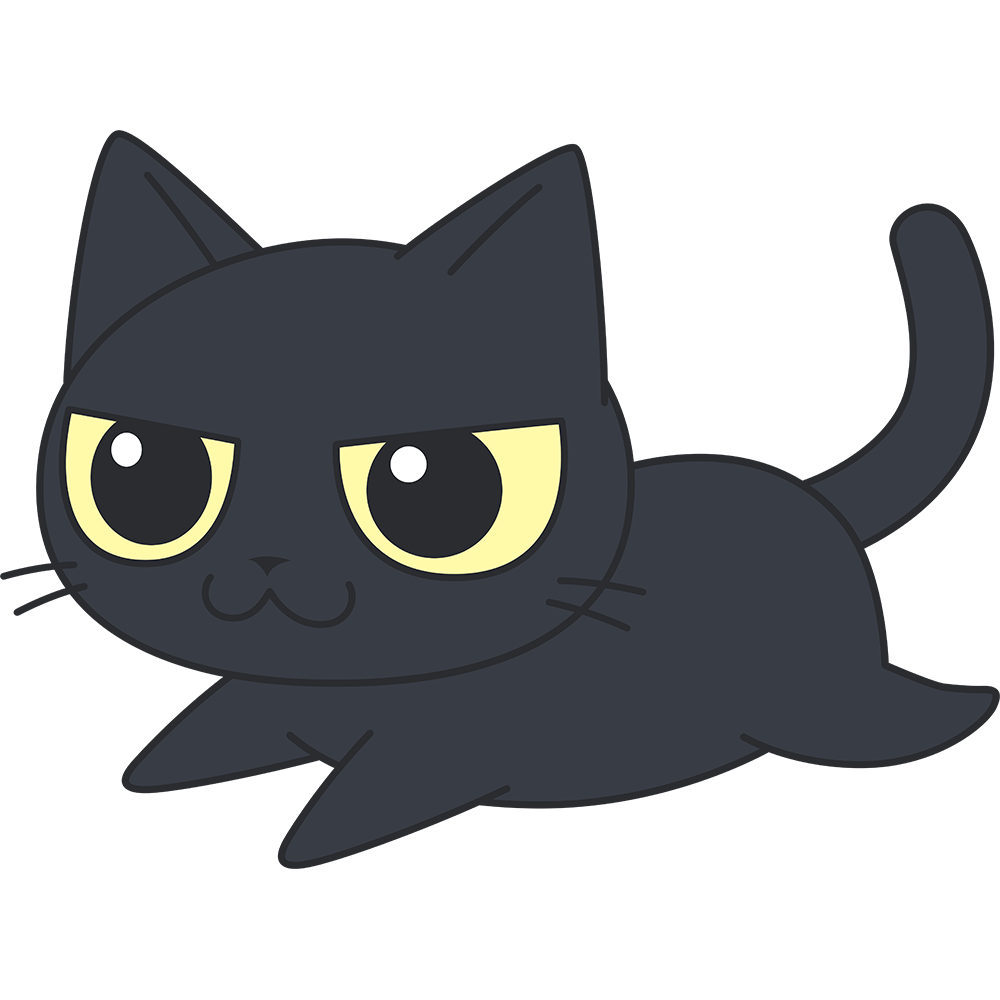
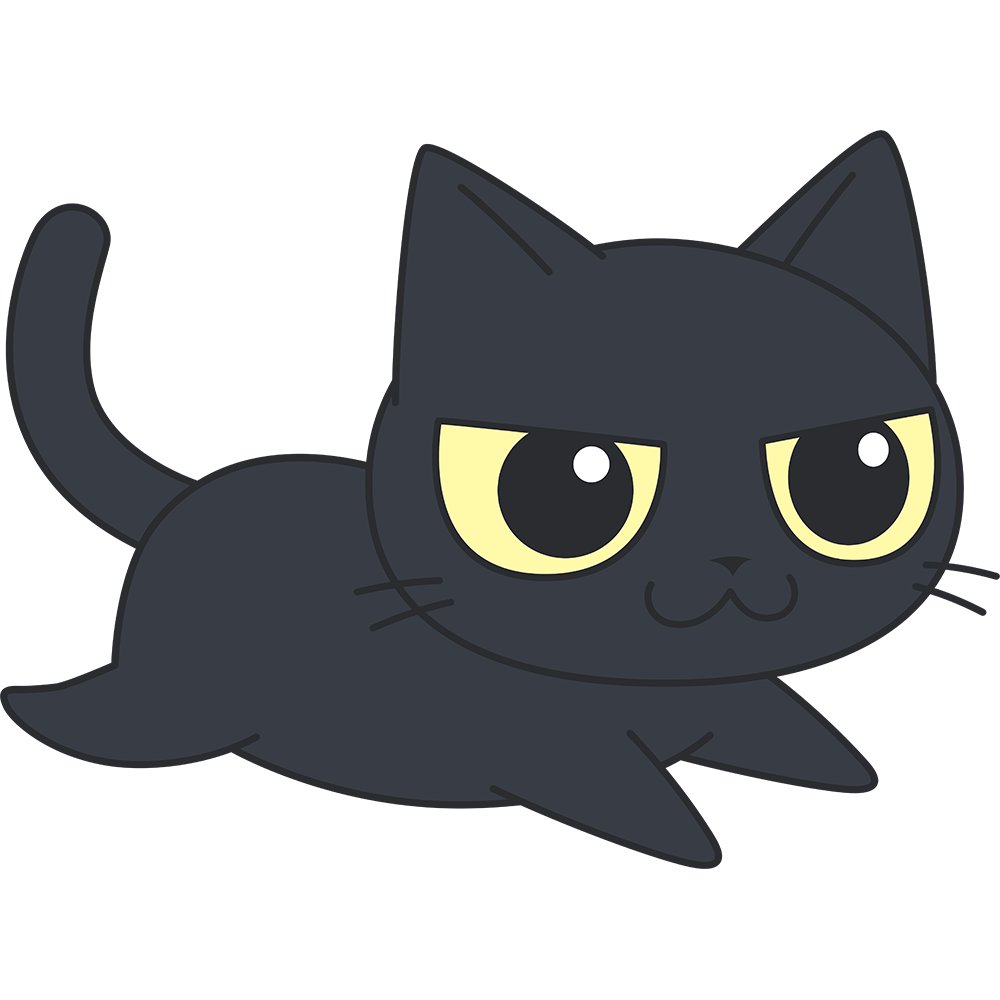
最後のぷしゅだお

Changed region(s): [[0.0, 0.124, 1.0, 0.868]]

diff --git a/src/main/resources/templates/top.html b/src/main/resources/templates/top.html
@@ -5,18 +5,50 @@
 <link th:href="@{/css/style.css}" rel="stylesheet">
 <meta charset="UTF-8">
 <title>KAKEINEKOTOP</title>
+<style>
+@keyframes asbm{
+0%{transform:perspective(250px) rotateY(-10deg) rotateX(15deg);}
+100%{transform:perspective(250px) rotateY(10deg) rotateX(-15deg);}
+}
+@keyframes wlk{
+0%{left:0px;transform:rotateY(0deg);}
+50%{left:calc(500px - 150px);transform:rotateY(0deg);}
+51%{left:calc(500px - 150px);transform:rotateY(180deg);}
+100%{left:0px;transform:rotateY(180deg);}
+}
+.waku0{
+display:inline-block;
+position: relative;
+animation: wlk 10s linear 0s infinite normal;
+ display: flex;
+flex-direction: row;
+}
+.waku1{
+display:inline-block;
+position:absolute;
+transform-origin: 0% 50% 0px;
+animation:asbm 0.8s linear 0s infinite alternate;
+ display: flex;
+flex-direction: row;
+}
+</style>
 </head>
-<body>
-	<div class="ashi">
+<body><div class="ashi">
 		<img src="/image/a.png" alt="足跡">
 		<h1>KAKEINEKO</h1>
 		<img src="/image/a.png" alt="足跡">
 	</div>
 	<br>
+<div class="waku0">
+<div class="waku1">
+   <img src="/image/run.png" alt=走る猫 width="150px" height="150px">
+</div>
+<br>
+</div>
 	<p class="ribbon">
 		<span th:text="'Welcome! '+${session.user.getName()}+' さん'"></span>
 	</p>
-	<br>
+
 	<br>
 	<br>
 	<a href="/newCategory" class="btn bgskew"><span>新規カテゴリ登録</span></a>

diff --git a/src/main/java/com/example/demo/TestController.java b/src/main/java/com/example/demo/TestController.java
@@ -13,7 +13,7 @@ public class TestController {
 	public ModelAndView test(ModelAndView mv) {
 
 		//start.htmlへ
-		mv.setViewName("start3");
+		mv.setViewName("start");
 
 		return mv;
 	}
